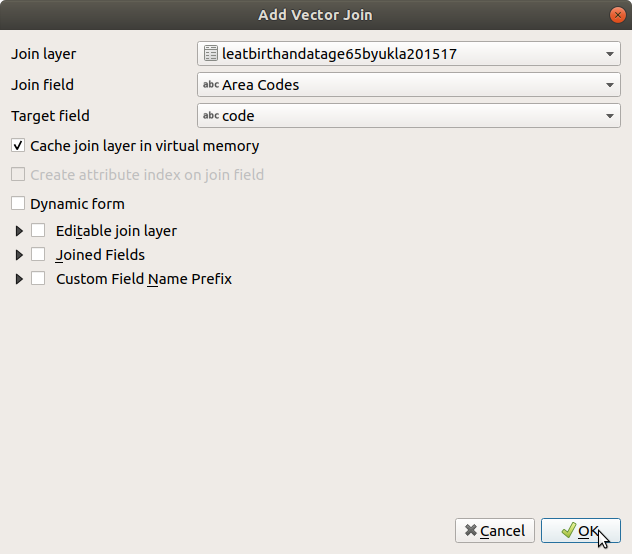
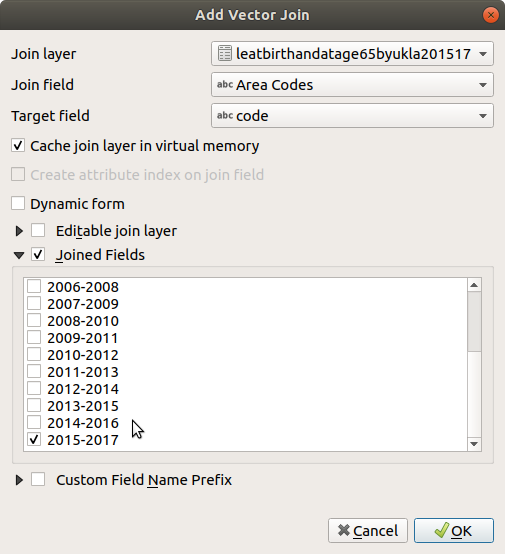
update join and style

diff --git a/handout.md b/handout.md
@@ -696,7 +696,31 @@ You need to provide a file path and make sure you select the correct Sheet (LE a
 Ensure you tick `Header at first line` and `End of file detection`, and check the preview looks correct before pressing `OK`.
 
 Whichever method you've chosen you should now see a new layer in your Layers panel listing the table.
-We will now join this to our spatial data.
+
+Before we join this to our spatial data it is advisable to perform a last check on the data to ensure it has been imported correctly and deal with any edge cases.
+Click on the `leatbirthandatage65byukla201517.csv` layer and open the attribute table (`F6`) or `Layer` > `Open Attribute Table` menu item.
+You should see something like the following:
+
+![Life expectancy layer attribute table](images/attribute-table.png)
+
+Notice that row 12 (City of London) has *`NULL`* for each year.
+This is genuinely missing data from the original spreadsheet and is not an import error, but we do have to correct this or it will affect our plot.
+To correct this we are going to remove it.
+
+The area code for City of London is `E09000001` (you can copy it from the attribute table if you like by right--clicking on the cell and pressing `Copy Cell Content`).
+Close the attribute table, select the layer in the `Layers` panel, right--click and press `Filter`.
+As before we are going to filter only the cases we want (using the filter we do not need to alter the original file in any way).
+This time, however, we are going to retain cases that *do not* match our criterion (i.e. we exclude City of London, which is much more efficient than including all other boroughs individually).
+Enter the following expression, either by clicking or typing directly as before (noting the double quotes around the label and the single quotes around the value):
+
+```
+"Area Codes" != 'E09000001'
+```
+
+![Filter City of London](images/filter-city-of-london.png)
+
+When you `Test` this 32 rows should remain.
+Press `OK` (and optionally verify the attribute table again).
 
 
 ### Join to spatial data
@@ -714,14 +738,16 @@ Press `Add` (the green `+`) then:
 1. Select the `Join layer` (this is the table layer)
 1. Select the `Join field` (this is the id column in the table layer)
 1. Select the `Target field` (this is the id column in the geometry layer)
+1. If you know you only need specific columns tick `Joined Fields` and click the arrow to display a list of columns and select only those you need. We only need `Area Codes` and `2015-2017` so tick these.
 1. Leave all other options as their default
+1. Press `OK` then `Apply`.
 
 ![Join dialogue](images/vector-join-dialogue.png)
 
 Now we can style our thematic map.
 Go to the `Symbology` tab and change `Single symbol` to `Graduated`.
-Select the column to base the styles on (I've used the most recent 2015--2017 data) and choose a colour ramp (I try to avoid red and green; more on this later).
-Select `Natural Breaks (Jenks)` under `Mode` and, for now, leave all options as their default (we'll talk more about stylistic choices later) and press `Classify`.
+Select the column to base the styles on (I've used the most recent `2015-2017` data) and choose a colour ramp (I try to avoid red and green; more on this later).
+Select `Natural Breaks (Jenks)` under `Mode` and, for now, leave all options as their default (we'll talk more about these choices later) and press `Classify` then `Apply`.
 
 ![Styling our map](images/le-thematic-map-jenks.png)
 
@@ -730,9 +756,25 @@ The resulting thematic map shows life expectancy at birth for females for all Lo
 ![Life expectancy at birth for females by London Borough](images/le-london-jenks.png)
 
 Use the `Identify Features` (`CTRL`/`CMD` + `Shift` + `I`) tool to find the names of the boroughs.
-The highest life expectancies are in: Harrow; Barnet; Camden; Westminster, Kensington and Chelsea; Richmond upon Thames; and Bromley.
+The highest life expectancies are in: Harrow; Camden; Westminster, Kensington and Chelsea; and Richmond upon Thames.
 The lowest life expectancies are in: Hackney; Tower Hamlets; Newham; Greenwich; and Barking and Dagenham, all on the east side of London.
+We'll get into analysis later, but if you're at all familiar with London you will no doubt notice a pattern to these.
 
+Congratulations on producing your first thematic map!
+
+
+## Breaks
+
+When mapping life expectancy above I simply instructed you to use `Natural Breaks (Jenks)`, but choosing (and styling) breaks is so important that I want to spend some time discussing this properly now.
+Just as when we are presenting non--spatial data it is essential to think about how we present that data, particularly when we group data into categories (or 'cut' it) which is typically necessary when presenting spatial data[^alternatives-to-cut].
+
+[^alternatives-to-cut]: There are alternatives to cutting or grouping the data, including using a smooth continuous gradient and plotting a 3D image and using the z--axis to denote the theme, but cutting the data is the most common approach.
+
+
+
+
+
+### Colours
 
 <!--TODO Choosing styles -->
 
